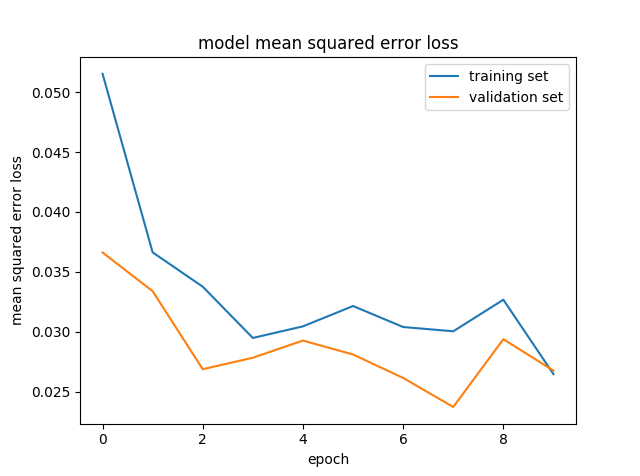
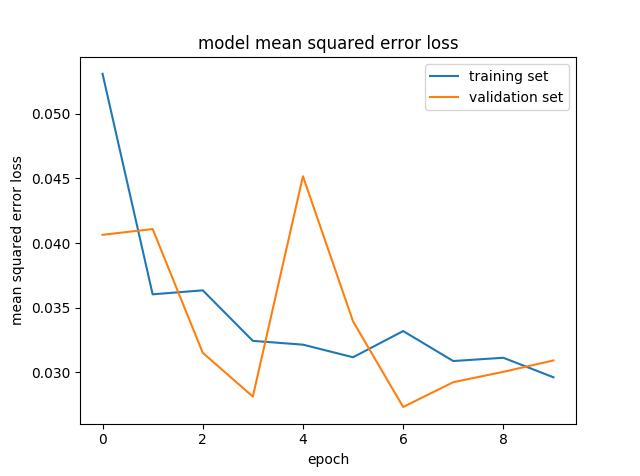
update2

diff --git a/model.py b/model.py
@@ -46,7 +46,7 @@ def augment_picture(images,angles):
         augmented_angles.append(angle)
         augmented_images.append(cv2.flip(image,1))
         augmented_angles.append(angle*-1.0)
-        #image = randomise_brightness(image)
+        image = randomise_brightness(image)
         image, angle = translation_augment(image, angle) #translation augment
         augmented_images.append(image)
         augmented_angles.append(angle)
@@ -74,11 +74,11 @@ def generator(lines, batch_size=32):
                 center_image = cv2.imread(center_name)
                 left_image = cv2.imread(left_name)
                 right_image = cv2.imread(right_name)
-                images.append(center_image)
+                images.append(cv2.cvtColor(center_image, cv2.COLOR_BGR2RGB))
                 angles.append(center_angle)
-                images.append(left_image)
+                images.append(cv2.cvtColor(left_image, cv2.COLOR_BGR2RGB))
                 angles.append(left_angle)
-                images.append(right_image)
+                images.append(cv2.cvtColor(right_image, cv2.COLOR_BGR2RGB))
                 angles.append(right_angle)
             # trim image to only see section with road
             augmented_images, augmented_angles = augment_picture(images,angles)
@@ -89,12 +89,8 @@ def generator(lines, batch_size=32):
 # compile and train the model using the generator function
 train_generator = generator(train_samples, batch_size=32)
 validation_generator = generator(validation_samples, batch_size=32)
-
-ch, row, col = 3, 160, 320  # Trimmed image format
-
 model = Sequential()
 # Preprocess incoming data, centered around zero with small standard deviation
-
 model.add(Lambda(lambda x: (x / 255.0) - 0.5, input_shape=(160,320,3)))
 model.add(Cropping2D(cropping=((70,25), (0,0))))
 model.add(Convolution2D(24,5,5,subsample=(2,2),activation="relu"))

diff --git a/drive.py b/drive.py
@@ -44,7 +44,7 @@ class SimplePIController:
 
 
 controller = SimplePIController(0.1, 0.002)
-set_speed = 25
+set_speed = 30
 controller.set_desired(set_speed)
 
 

diff --git a/writeup_report.md b/writeup_report.md
@@ -15,13 +15,15 @@ The goals / steps of this project are the following:
 
 [//]: # (Image References)
 
-[image1]: ./images/MSE.png "Model Visualization"
-[image2]: ./examples/placeholder.png "Grayscaling"
-[image3]: ./examples/placeholder_small.png "Recovery Image"
-[image4]: ./examples/placeholder_small.png "Recovery Image"
-[image5]: ./examples/placeholder_small.png "Recovery Image"
-[image6]: ./examples/placeholder_small.png "Normal Image"
-[image7]: ./examples/placeholder_small.png "Flipped Image"
+[image1]: ./images/Nvidia_model.png "Model Visualization"
+[image2]: ./images/center_example.jpg "example"
+[image3]: ./images/center_1.jpg "Recovery Image"
+[image4]: ./images/center_2.jpg "Recovery Image"
+[image5]: ./images/center_3.jpg "Recovery Image"
+[image6]: ./images/center_reverse.jpg "reverse Image"
+[image7]: ./images/before_flip.png "Flipped Image"
+[image8]: ./images/after_flip.png "Flipped Image"
+[image9]: ./images/MSE.png "MSE"
 
 ## Rubric Points
 ### Here I will consider the [rubric points](https://review.udacity.com/#!/rubrics/432/view) individually and describe how I addressed each point in my implementation.  
@@ -32,42 +34,47 @@ The goals / steps of this project are the following:
 #### 1. Submission includes all required files and can be used to run the simulator in autonomous mode
 
 My [project](https://github.com/xushengyao/CarND-Behavioral-Cloning-P3) includes the following files:
-* model.py containing the script to create and train the model
-* drive.py for driving the car in autonomous mode
-* model.h5 containing a trained convolution neural network
-* writeup_report.md or writeup_report.pdf summarizing the results
+* [model.py](model.py) containing the script to create and train the model
+* [drive.py](drive.py) for driving the car in autonomous mode
+* [model.h5](model.h5) containing a trained convolution neural network
+* [writeup_report.md](writeup_report.md) summarizing the results
+* [video.mp4](video.mp4) video recoding of the vehcile driving autonomously for two laos around the track
 
 #### 2. Submission includes functional code
-Using the Udacity provided simulator and my drive.py file, the car can be driven autonomously around the track by executing
+Using the Udacity provided simulator and [drive.py](drive.py) file, the car can be driven autonomously around the track by executing
 ```
 python drive.py model.h5
 ```
 
 #### 3. Submission code is usable and readable
 
-The model.py file contains the code for training and saving the convolution neural network. The file shows the pipeline I used for training and validating the model, and it contains comments to explain how the code works.
+The [model.py](model.py) file contains the code for training and saving the convolution neural network. The file shows the pipeline I used for training and validating the model, and it contains comments to explain how the code works.
 
 ### Model Architecture and Training Strategy
 
 #### 1. An appropriate model architecture has been employed
 
-My model consists of a convolution neural network with 3x3 filter sizes and depths between 32 and 128 (model.py lines 18-24)
+The base model I am using is the [Nvidia](https://arxiv.org/pdf/1604.07316.pdf) model, which consists of 9 layers, including a normalization layer, 5 convolution layers and 3 fully connected layers.
 
-The model includes RELU layers to introduce nonlinearity (code line 20), and the data is normalized in the model using a Keras lambda layer (code line 18).
+![Model Visualization][image1]
+
+Here, the data was normalized in the model using a Keras lambda layer. Also, in order to choose an area of interest, Cropping2D layer of Keras was used to exclude the sky and the hood of the car. For the convolution layers, I followed the Nvidia's model and used strided convolutions in the first three convolutional layers with a 2×2 stride and a 5×5 kernel, and a non-strided convolution with a 3×3 kernel size in the last two convolutional layers.
+
+Actually, before trying Nvidia model, I used LeNet but got a bad result. Then I switched to Nvidia model and found out it's relatively simple and the resulted MSE is very low.
 
 #### 2. Attempts to reduce overfitting in the model
 
-The model contains dropout layers in order to reduce overfitting (model.py lines 106).
+The model contains two dropout layers (keep_prob = 0.7) in order to reduce overfitting (code line 102 and 104)
 
-The model was trained and validated on different data sets to ensure that the model was not overfitting (code line 10-16). The model was tested by running it through the simulator and ensuring that the vehicle could stay on the track.
+The model was trained and validated on different data sets to ensure that the model was not overfitting. The model was tested by running it through the simulator and ensuring that the vehicle could stay on the track.
 
 #### 3. Model parameter tuning
 
-The model used an Adam optimizer, so the learning rate was not tuned manually (model.py line 25).
+The model used an Adam optimizer, so the learning rate was not tuned manually (code line 109).
 
 #### 4. Appropriate training data
 
-Training data was chosen to keep the vehicle driving on the road. I used a combination of center lane driving, recovering from the left and right sides of the road ...
+Training data was chosen to keep the vehicle driving on the road. I used a combination of center lane driving, recovering from the left and right sides of the road.
 
 For details about how I created the training data, see the next section.
 
@@ -77,11 +84,11 @@ For details about how I created the training data, see the next section.
 
 The overall strategy for deriving a model architecture was to ...
 
-My first step was to use a convolution neural network model similar to the ... I thought this model might be appropriate because ...
+My first step was to use a convolution neural network model similar to the ... I thought this model might be appropriate because it has been used for
 
 In order to gauge how well the model was working, I split my image and steering angle data into a training and validation set. I found that my first model had a low mean squared error on the training set but a high mean squared error on the validation set. This implied that the model was overfitting.
 
-To combat the overfitting, I modified the model so that ...
+To combat the overfitting, I modified the model and added two dropout layers after the Flatten layer.
 
 Then I ...
 
@@ -91,54 +98,53 @@ At the end of the process, the vehicle is able to drive autonomously around the 
 
 #### 2. Final Model Architecture
 
-The final model architecture (model.py lines 18-24) consisted of a convolution neural network with the following layers and layer sizes ...
+The final model architecture (code lines 94-107) consisted of a convolution neural network with the following layers and layer sizes.
 
 Here is a visualization of the architecture (note: visualizing the architecture is optional according to the project rubric)
 
-|      Layer      |                 Description                 |
-|:---------------:|:-------------------------------------------:|
-|      Input      |           32x32x1 grayscale image           |
-| Convolution 5x5 | 5x5 stride, valid padding, outputs 28x28x6  |
-|      RELU       |                                             |
-|   Max pooling   | 2x2 stride, valid padding,  outputs 14x14x6 |
-| Convolution 5x5 | 1x1 stride, valid padding, outputs 10x10x16 |
-|      RELU       |                                             |
-|   Max pooling   |  2x2 stride, valid padding, outputs 5x5x16  |
-|     Flatten     |                 output 400                  |
-| Fully connected |                 output 120                  |
-|      RELU       |                                             |
-|     Dropout     |               keep_prob = 0.7               |
-| Fully connected |                  output 84                  |
-|      RELU       |                                             |
-|     Dropout     |               keep_prob = 0.7               |
-| Fully connected |                  output 43                  |
-
-![alt text][image1]
+|      Layer      |                Description                 |
+|:---------------:|:------------------------------------------:|
+|      Input      |            160x320x3 RGB image             |
+|     Lambda      |               normalization                |
+|   Cropping2D    |     cropping=(70,25), outputs 65x320x3     |
+|  Convolution2D  | 2x2 stride, 5×5 kernel,  outputs 31x158x24 |
+|  Convolution2D  |  2x2 stride, 5×5 kernel, outputs 14x77x36  |
+|  Convolution2D  |  2x2 stride, 5×5 kernel, outputs 5x37x48   |
+|  Convolution2D  |      3x3 non-stride, outputs 3x35x64       |
+|  Convolution2D  |      3x3 non-stride, outputs 1x33x64       |
+|     Flatten     |                outputs 2112                |
+|     Dropout     |              keep_prob = 0.7               |
+| Fully connected |                outputs 100                 |
+|     Dropout     |              keep_prob = 0.7               |
+| Fully connected |                 outputs 50                 |
+| Fully connected |                 outputs 10                 |
+| Fully connected |                 outputs 1                  |
 
 #### 3. Creation of the Training Set & Training Process
 
-To capture good driving behavior, I first recorded two laps on track one using center lane driving. Here is an example image of center lane driving:
+To capture good driving behavior, I first recorded four laps on track one using center lane driving. Here is an example image of center lane driving:
 
-![alt text][image2]
+![example][image2]
 
-I then recorded the vehicle recovering from the left side and right sides of the road back to center so that the vehicle would learn to .... These images show what a recovery looks like starting from ... :
+Then I recorded the vehicle recovering from the left side and right sides of the road back to center so that the vehicle would learn to how to get back to the center of the road if it gets off to the side.  These images show what a recovery looks like starting from completely off the side, partly off the side, back to the center:
 
-![alt text][image3]
-![alt text][image4]
-![alt text][image5]
+![Recovery Image"][image3]
+![Recovery Image"][image4]
+![Recovery Image"][image5]
 
-Then I repeated this process on track two in order to get more data points.
+Then I recorded one counter-clockwise lap around the track to help the model to combat the bias which is towards left turns. An example image for the reverse driving is shown below:
 
-To augment the data sat, I also flipped images and angles thinking that this would ... For example, here is an image that has then been flipped:
+![reverse image][image6]
 
-![alt text][image6]
-![alt text][image7]
+To augment the data sat, I also flipped images and angles thinking that this would increase the size of the training set and helping with the left turn bias. For example, here is an image that has then been flipped:
 
-Etc ....
+![flipped image][image7]
+![flipped image][image8]
 
-After the collection process, I had X number of data points. I then preprocessed this data by ...
+Also, I randomly changed the brightness and of the image to
 
+I finally randomly shuffled the data set and put 10% of the data into a validation set.
 
-I finally randomly shuffled the data set and put Y% of the data into a validation set.
+I used this training data for training the model. The validation set helped determine if the model was over or under fitting. The ideal number of epochs was Z as evidenced by ... I used an adam optimizer so that manually training the learning rate wasn't necessary.The final MSE result for training sets and validations sets is shown below:
 
-I used this training data for training the model. The validation set helped determine if the model was over or under fitting. The ideal number of epochs was Z as evidenced by ... I used an adam optimizer so that manually training the learning rate wasn't necessary.
+![MSE][image9]
